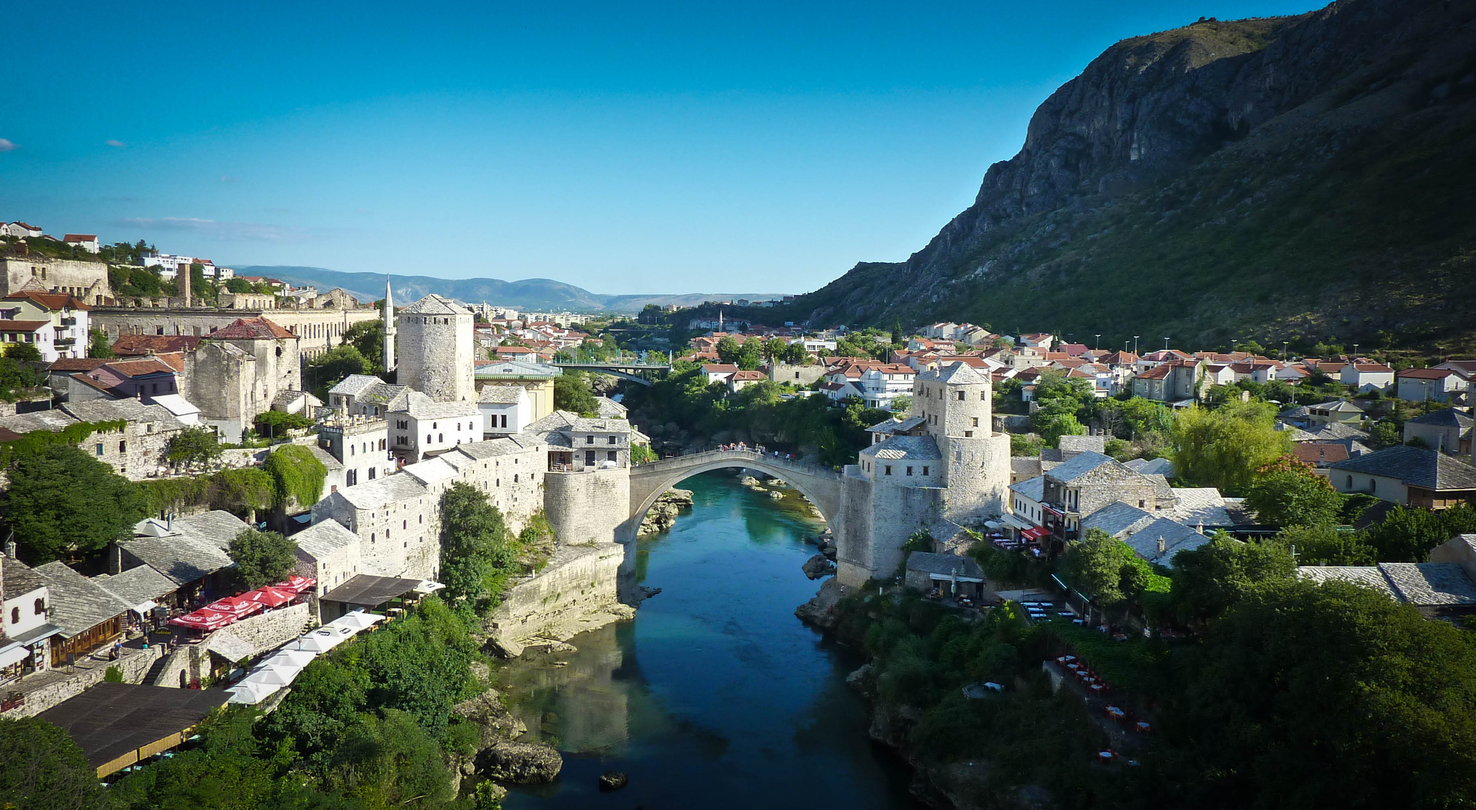
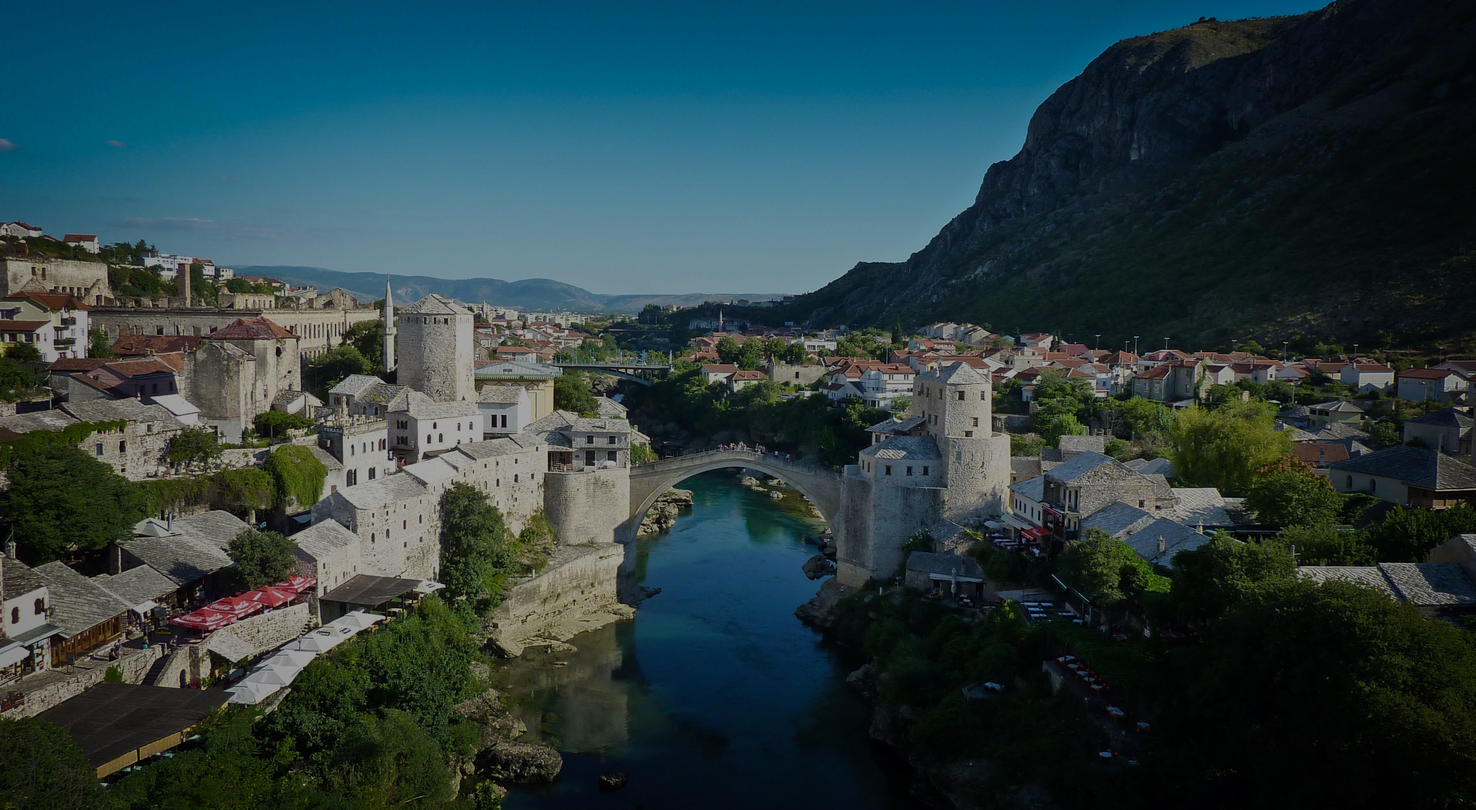
Fix background color expose

diff --git a/css/style.css b/css/style.css
@@ -15,11 +15,4 @@ header {
  	background-repeat: no-repeat;
  	background-size: 100% 100%;
 	background-position: center;
-	-webkit-filter: grayscale(100%);
-	-moz-filter: grayscale(100%);
-	-ms-filter: grayscale(100%);
-	-o-filter: grayscale(100%);
-	filter: grayscale(100%);
-	filter: url(grayscale.svg); /* Firefox 4+ */
-	filter: gray; /* IE 6-9 */;
  }
